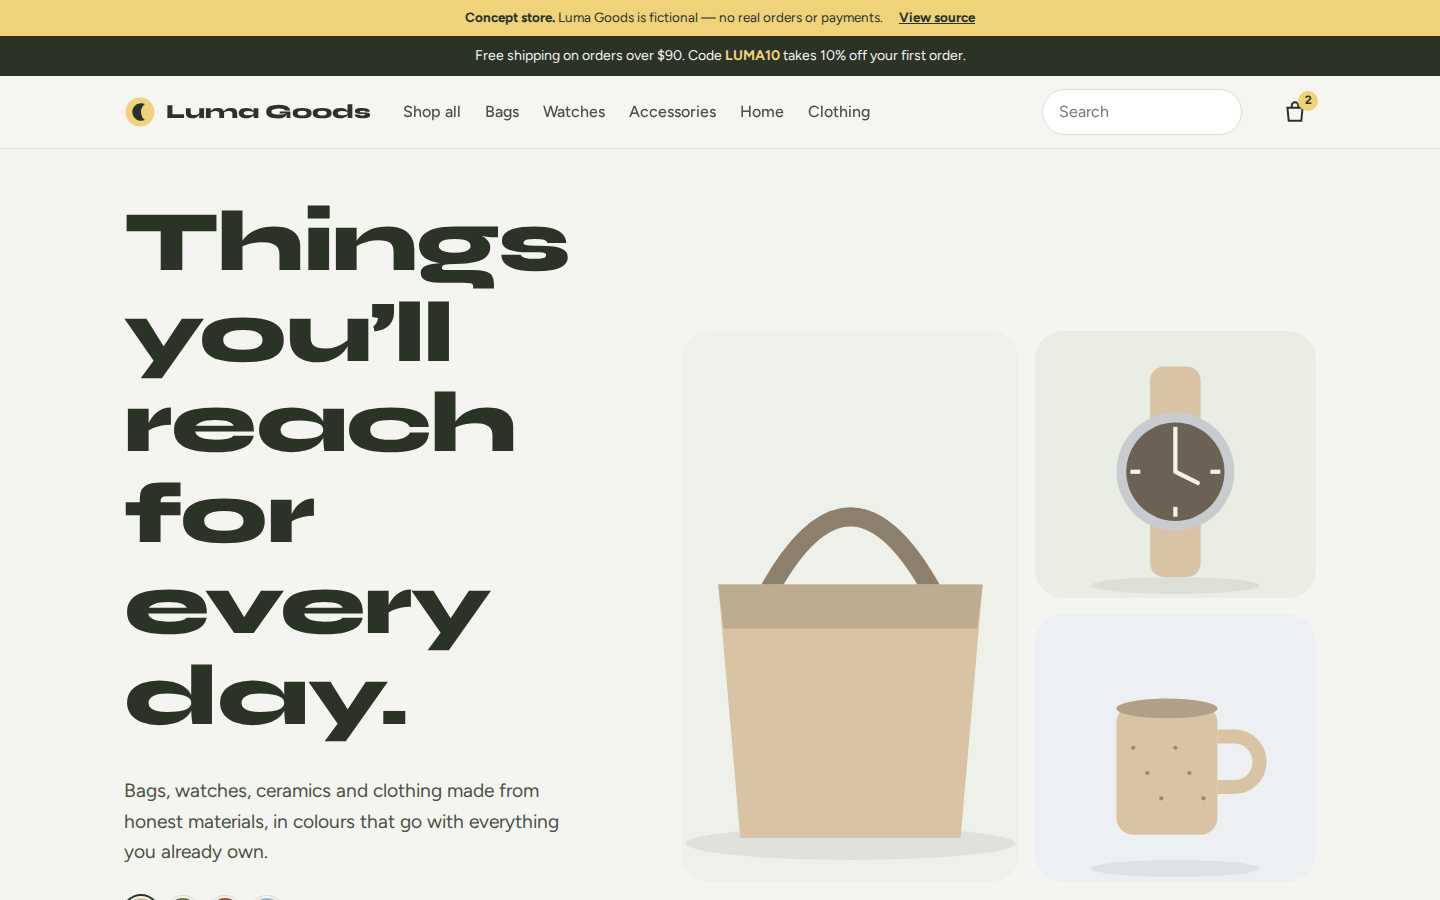
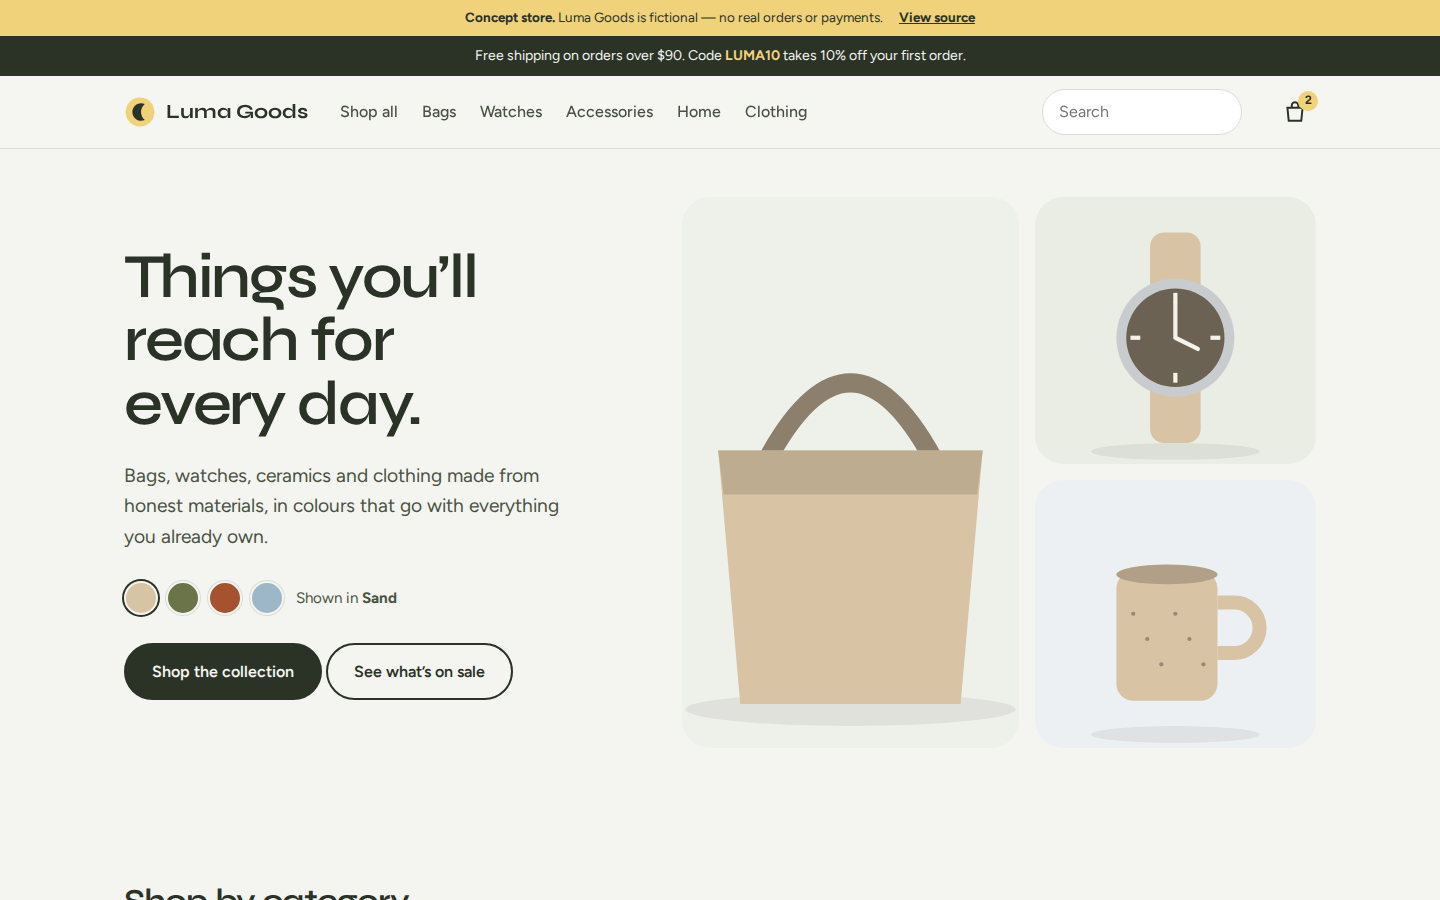
Soften heading weight and size so display text no longer looks stretched
Syne gets wider as it gets bolder; headings move from 800 to 600,
the hero headline is smaller with balanced line breaks, and stacked
buttons get spacing on mobile.

diff --git a/css/luma.css b/css/luma.css
@@ -184,3 +184,13 @@ select{padding:10px 14px;border-radius:12px;border:1.5px solid var(--stone);back
 .help table{width:100%;border-collapse:collapse;font-size:.95rem}.help th,.help td{text-align:left;padding:8px 10px;border-bottom:1px solid var(--stone)}
 .help .tw{overflow-x:auto}
 .short{display:none}@media (max-width:600px){.long{display:none}.short{display:inline}.demo-bar{flex-wrap:nowrap;justify-content:space-between;text-align:left;font-size:.8rem}}
+/* Syne widens as weight increases: keep headings at a moderate weight and size */
+h1,h2,h3{font-weight:600;letter-spacing:-.025em}
+h1{font-size:clamp(2rem,4vw,3rem)}h2{font-size:clamp(1.5rem,2.6vw,2.1rem)}
+.hero h1{font-size:clamp(2.3rem,4.6vw,3.9rem);max-width:12ch;line-height:1.02;letter-spacing:-.035em}
+.promo-band h2{font-size:clamp(1.8rem,3.2vw,2.6rem)}
+.promo-band .code{font-weight:600;letter-spacing:.02em}
+.logo{font-weight:700}.done h1{font-size:2rem}
+.cat b,.perks b{font-weight:600}
+.hero h1{max-width:14ch;text-wrap:balance}
+.hero .btn{margin:0 8px 10px 0}
